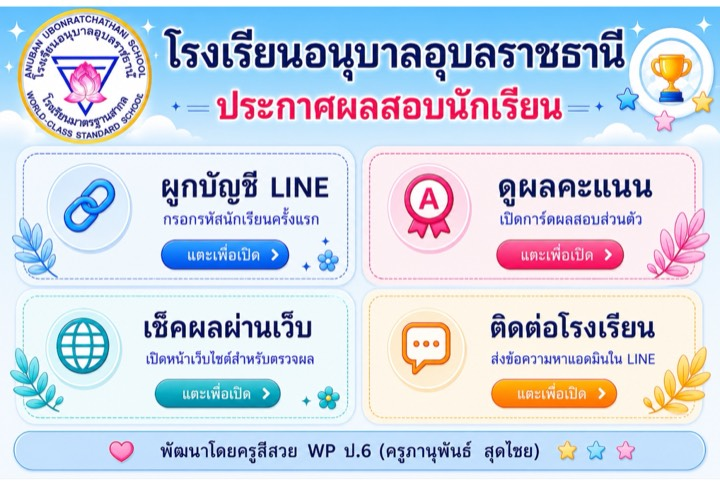
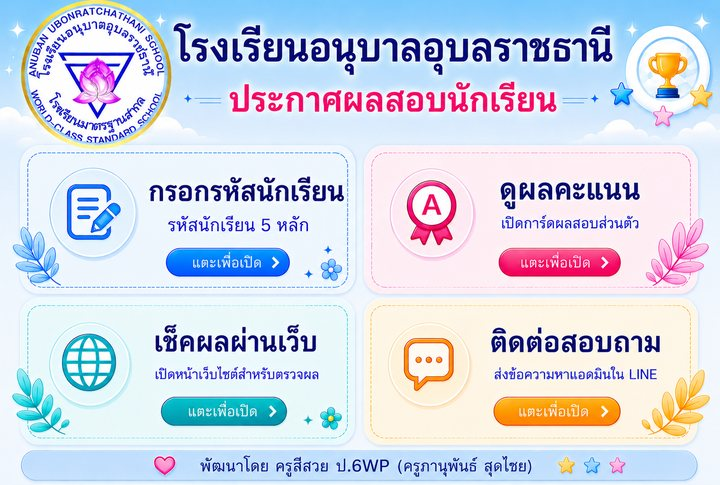
feat(line): อัปเดตรูป Rich Menu ใหม่ + label ให้ตรง
- เปลี่ยนรูป public/line-rich-menu.jpg เป็นเวอร์ชันใหม่ (resize 2500×1686, JPG 612KB < 1MB)
  ช่อง 1: "กรอกรหัสนักเรียน / รหัสนักเรียน 5 หลัก", ช่อง 4: "ติดต่อสอบถาม"
- อัปเดต preview (720×485)
- label พื้นที่กดใน line-rich-menu.ts: "ผูกบัญชี LINE"→"กรอกรหัสนักเรียน",
  "ติดต่อโรงเรียน"→"ติดต่อสอบถาม" (action ปลายทางเหมือนเดิม)

diff --git a/src/lib/line-rich-menu.ts b/src/lib/line-rich-menu.ts
@@ -19,7 +19,7 @@ export function getLineRichMenuPayload() {
     areas: [
       {
         bounds: { x: 55, y: 500, width: 1160, height: 455 },
-        action: { type: "uri", label: "ผูกบัญชี LINE", uri: getLineLiffUrl() },
+        action: { type: "uri", label: "กรอกรหัสนักเรียน", uri: getLineLiffUrl() },
       },
       {
         bounds: { x: 1260, y: 500, width: 1185, height: 455 },
@@ -31,7 +31,7 @@ export function getLineRichMenuPayload() {
       },
       {
         bounds: { x: 1260, y: 975, width: 1185, height: 455 },
-        action: { type: "uri", label: "ติดต่อโรงเรียน", uri: `${siteUrl}/contact` },
+        action: { type: "uri", label: "ติดต่อสอบถาม", uri: `${siteUrl}/contact` },
       },
     ],
   };
